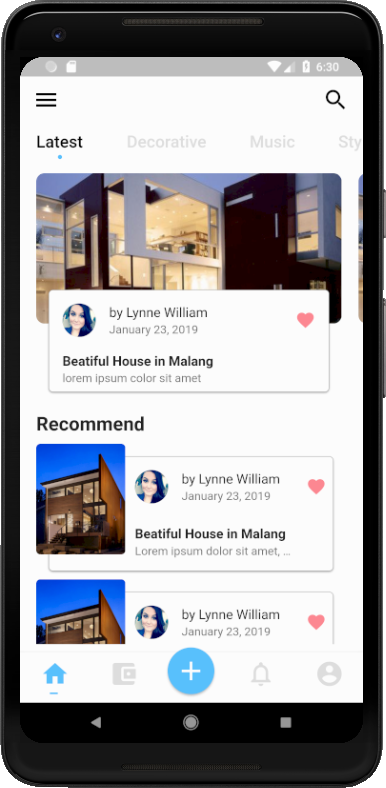
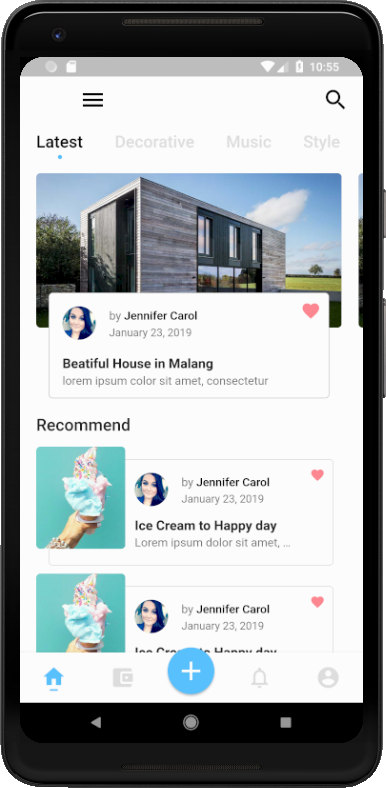
chore: update styles in  news clone

diff --git a/lib/pages/templates/news-app-concept-clone/news-app-concept-home.dart b/lib/pages/templates/news-app-concept-clone/news-app-concept-home.dart
@@ -5,12 +5,12 @@ import 'package:playground_flutter/pages/templates/news-app-concept-clone/catego
 import 'package:playground_flutter/pages/templates/news-app-concept-clone/news-app-concept-details.dart';
 
 String img =
-    "https://i.pinimg.com/originals/77/d6/79/77d679bb5ba328796061202510f30bf2.jpg";
+    "https://passivehouseplus.ie/media/k2/items/cache/fc5d9d8578a06f6d4c69c78df34d3f3a_XL.jpg?t=-62169984000";
 String avatar =
     "https://heavyeditorial.files.wordpress.com/2017/07/jessica-johnson-5.jpg?w=531&quality=65&strip=all&h=531";
 
 String img2 =
-    "http://www.sequencememoizer.com/wp-content/uploads/2018/10/fachadas-de-casas-modernas-treinta-y-ocho-dise-os-hermosas-ideas-fotos-de-disenos-de-casas-modernas.jpg";
+    "http://www.dubaiweek.ae/wp-content/uploads/2017/10/Krusty-The-Cone-1-e1507813664264.jpg";
 
 class NewsAppConceptHome extends StatelessWidget {
   const NewsAppConceptHome({Key key}) : super(key: key);
@@ -92,7 +92,7 @@ class NewsAppConceptHome extends StatelessWidget {
                             "Recommend",
                             textAlign: TextAlign.left,
                             style: TextStyle(
-                              fontWeight: FontWeight.w400,
+                              fontWeight: FontWeight.w600,
                               fontSize: 20,
                             ),
                           ),
@@ -199,7 +199,7 @@ class NewsAppConceptHome extends StatelessWidget {
                         child: ListTile(
                           contentPadding: EdgeInsets.all(0),
                           title: Text(
-                            "Beatiful House in Malang",
+                            "Ice Cream to Happy day",
                             style: TextStyle(
                               fontWeight: FontWeight.bold,
                             ),
